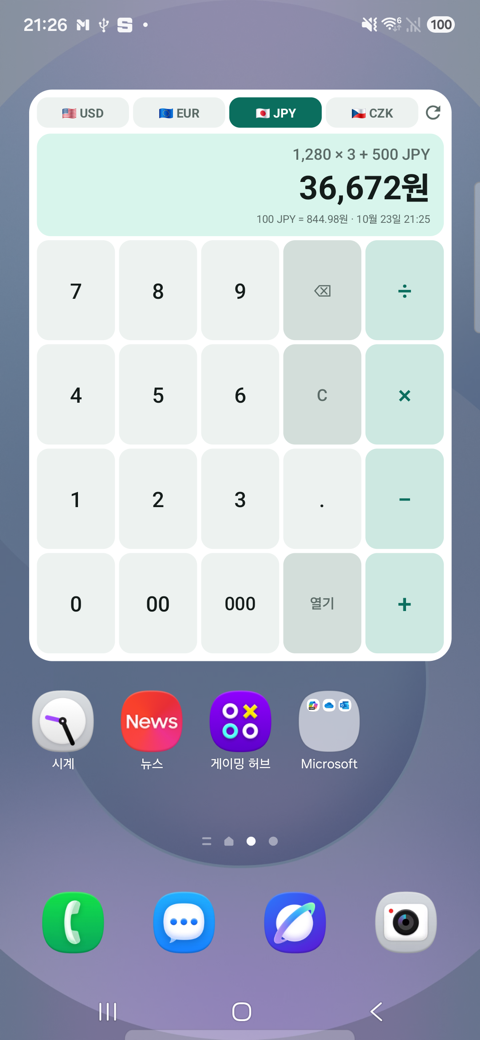
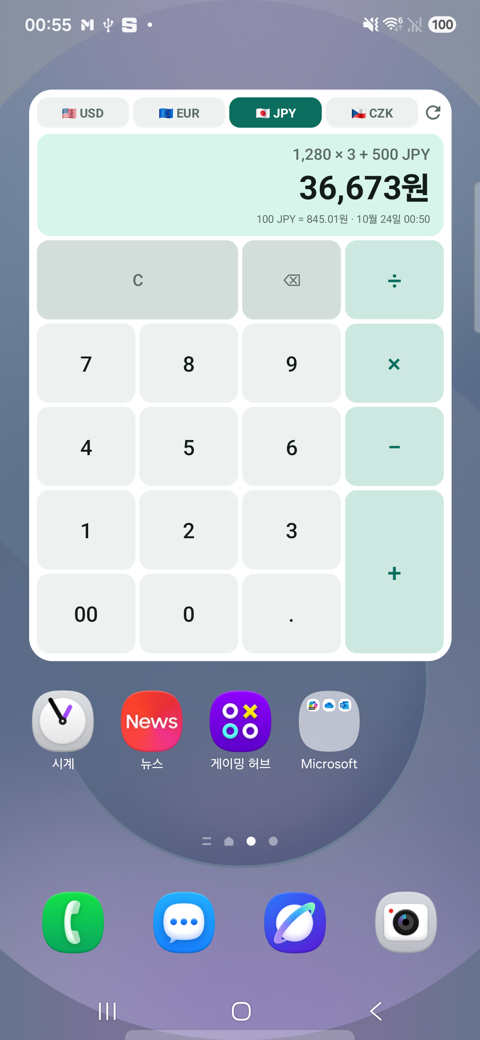
feat: 계산기 위젯 열기 키 제거(표시 영역 탭으로 앱 열기), C·⌫ 2칸 배치 (v2.5.4)
[위젯 계산기]
- 열기(kopen) 키 제거. 표시 영역 전체(w_display: 식·결과·환율 줄과 여백)에 앱 열기 연결
  - 이전에는 w_amount/w_result 텍스트만 눌렸고 여백·환율 줄은 반응 없었음
- 큰 위젯(4x5): C ⌫ ÷ / 7 8 9 × / 4 5 6 − / 1 2 3 + / 00 0 . +
  - C는 2칸 폭(폭 4dp + weight 2 → 아래 두 키 + 간격과 같은 길이)
- 3칸 위젯(5x4): 7 8 9 ÷ C / 4 5 6 × C / 1 2 3 − ⌫ / 00 0 . + ⌫
  - C(위)·⌫(아래) 각 2칸. C를 +에서 먼 위쪽에 두어 실수로 식을 지우는 일을 줄임
- widget_styles.xml 주석에서 "열기" 제거

[버전] versionCode 21 → 22, versionName 2.5.3 → 2.5.4, Changelog 2.5.4 블록 추가
[README] 결제 수단 유지·저장, 계산기 위젯 배치·결과 탭 앱 열기 설명 추가, 위젯 스크린샷 교체

[기기 확인 S25 R3CXC0JPJQX, 큰 위젯 약 489dp]
- 1 2 + 3 ⌫ → "12 + JPY / 101원", C 정상
- 1280 × 3 + 500 → 36,673원(100 JPY = 845.01원)
- C 후 표시 영역 왼쪽 여백 탭 → MainActivity 진입 확인
[미확인] 3칸 위젯 실화면(홈 배치 변경 필요)
[테스트] 단위 테스트 전체 통과

diff --git a/app/src/main/java/com/pricehere/app/Changelog.kt b/app/src/main/java/com/pricehere/app/Changelog.kt
@@ -10,6 +10,20 @@ data class Release(
 /** 최신 버전이 맨 위. 배포할 때마다 여기에 한 블록씩 쌓는다. */
 val CHANGELOG: List<Release> = listOf(
     Release(
+        version = "2.5.4",
+        date = "2026-10-24",
+        headline = "계산기 위젯 키 배치를 다듬고, 결제 수단을 기억합니다",
+        notes = listOf(
+            "계산기 위젯을 크게 놓으면 +가 2칸인 계산기 배치로 바뀝니다",
+            "계산기 위젯의 000·열기 키를 뺐습니다. 앱은 위쪽 계산 결과를 누르면 열립니다",
+            "연산자 키와 기능 키 사이가 붙어 보이던 문제를 고쳤습니다",
+            "카드·현찰로 고른 결제 수단을 앱을 다시 열어도 유지합니다",
+            "저장할 때 고른 결제 수단을 함께 남겨, 저장 목록 합계에 카드 수수료까지 반영합니다",
+            "일본 면세 최소 금액(5,000엔)을 세금 뺀 가격으로 판단합니다",
+            "저장 목록의 공유·삭제 버튼을 누르기 쉽게 키웠습니다",
+        ),
+    ),
+    Release(
         version = "2.5.3",
         date = "2026-10-23",
         headline = "틀린 금액을 바로잡고, 계산기 위젯을 다시 그렸습니다",

diff --git a/app/src/main/java/com/pricehere/app/WidgetRender.kt b/app/src/main/java/com/pricehere/app/WidgetRender.kt
@@ -147,7 +147,8 @@ private fun buildKeypad(context: Context, layout: Int): RemoteViews {
             WidgetHub.broadcast(context, provider, WidgetHub.ACTION_KEY, key),
         )
     }
-    views.setOnClickPendingIntent(R.id.kopen, WidgetHub.openApp(context))
+    // 열기 키 대신 표시 영역 전체(식·결과·환율 줄과 그 여백)를 누르면 앱이 열린다.
+    views.setOnClickPendingIntent(R.id.w_display, WidgetHub.openApp(context))
     return views
 }
 

diff --git a/README.md b/README.md
@@ -20,7 +20,7 @@
 - **한국식 어림값** — 원화 결과 옆에 "약 3만 7천원"처럼 감이 오는 단위로 함께 보여줍니다.
 - **계산식 입력** — 입력칸에 `1,280 × 3 + 500`처럼 식을 넣으면 합계를 바로 환산합니다. 키보드가 떠 있는 동안 빠른 금액 줄이 `+ − × ÷` 키로 바뀝니다.
 - **빠른 금액** — `+10` `+100`처럼 누를 때마다 더해지고, 초기화로 한 번에 비웁니다.
-- **결제 수단별 실부담** — 매매기준율 / 카드 결제 / 현찰 구입 추정치를 전환합니다.
+- **결제 수단별 실부담** — 매매기준율 / 카드 결제 / 현찰 구입 추정치를 전환합니다. 고른 결제 수단은 다시 열어도 유지되고, 저장 목록에도 함께 남습니다.
 - **환율 추이** — 7일 · 30일 · 90일 그래프와 최저 · 최고 · 평균. ECB 기준환율이라 주말과 공휴일은 비어 있습니다.
 - **팁 계산** — 나라별 관행에 맞춘 비율과 인원수 분배. 일본처럼 팁이 없는 곳은 그렇게 안내합니다.
 - **세금 환급 계산** — 체코 · 스페인 · 일본의 부가세 환급 예상액과 최소 구매 금액. 일본은 2026년 11월 1일 제도 개편에 맞춰 즉시 면세와 공항 환급을 나눠 계산합니다.
@@ -37,7 +37,7 @@
 | --- | --- | --- |
 | 환율 보기 | 4×2 | 달러 · 유로 · 엔 · 코루나 환율을 한눈에 |
 | 빠른 계산 | 4×2 | 통화와 금액을 골라 원화를 바로 계산 |
-| 환율 계산기 | 4×3 | 위젯 안에서 사칙연산(+ − × ÷)으로 계산해 바로 환산 |
+| 환율 계산기 | 4×3 | 위젯 안에서 사칙연산(+ − × ÷)으로 계산해 바로 환산. 크게 놓으면 +가 2칸인 계산기 배치, 계산 결과를 누르면 앱 열기 |
 
 ## 기술
 
